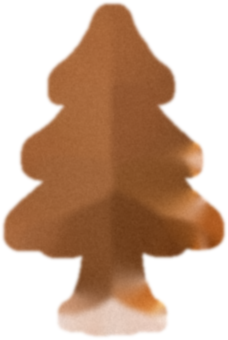
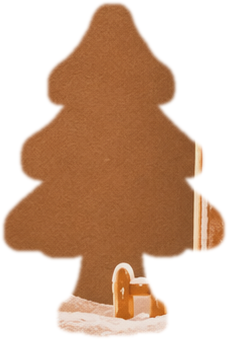
PC: saubere Hintergrundstellen aus der Vorlage, Bilder frisch laden
Claude-Session: https://claude.ai/code/session_01Th1ZwhDaFACmJguCpPspif

diff --git a/index.html b/index.html
@@ -410,8 +410,9 @@ function addStar(parent, leftPct, topPct, sizePx) {
 ['karte-lebkuchen.webp','schnee.jpg', (PC ? 'pc' : 'handy') + '-herz.png', (PC ? 'pc' : 'handy') + '-herz-loch.png'].forEach(u => { const i = new Image(); i.src = u; });
 
 const REPO = 'justynagladysz-star/Advent-';
+const V = '?v=26';   // neue Nummer = Browser lädt die Bilder frisch
 async function findImage() {
-  return L.img;
+  return L.img + V;
 }
 
 const day = parseInt(new URLSearchParams(location.search).get('tag'), 10);
@@ -482,7 +483,7 @@ findImage().then(src => {
     // Teile aus dem Bild selbst: nur sichtbar, solange sie sich bewegen
     const IM = PC ? 'pc' : 'handy', AN = L.anim;
     const cut = (src, cls, b, pivot) => {
-      const e = document.createElement('img'); e.src = src; e.alt = ''; e.className = 'cut ' + cls;
+      const e = document.createElement('img'); e.src = src + V; e.alt = ''; e.className = 'cut ' + cls;
       e.style.left = (b[0] / L.W * 100) + '%'; e.style.top = ((b[1] + L.OFF) / L.H * 100) + '%';
       e.style.width = (b[2] / L.W * 100) + '%'; e.style.height = (b[3] / L.H * 100) + '%';
       if (pivot) e.style.transformOrigin = ((pivot[0] - b[0]) / b[2] * 100) + '% ' + ((pivot[1] - b[1]) / b[3] * 100) + '%';
